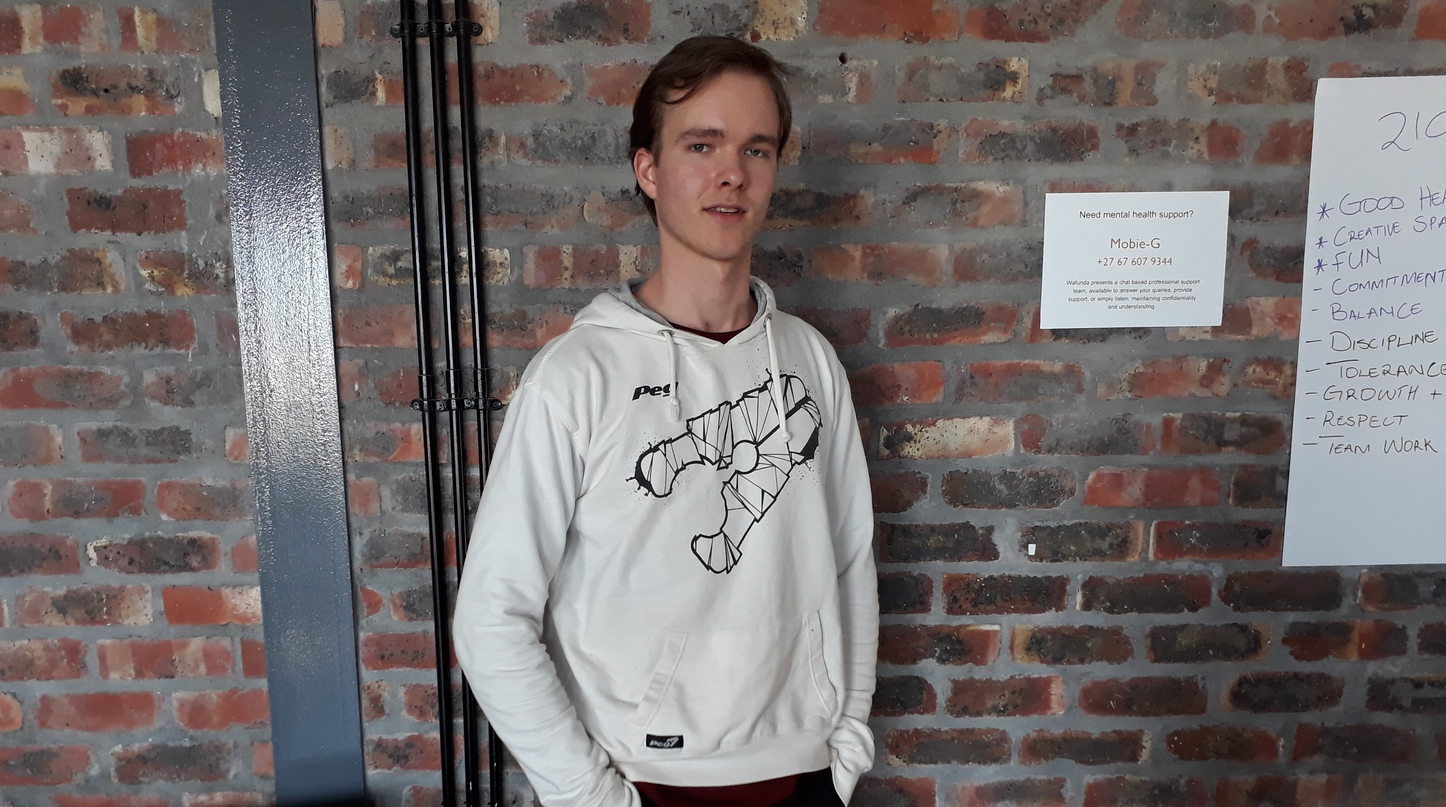
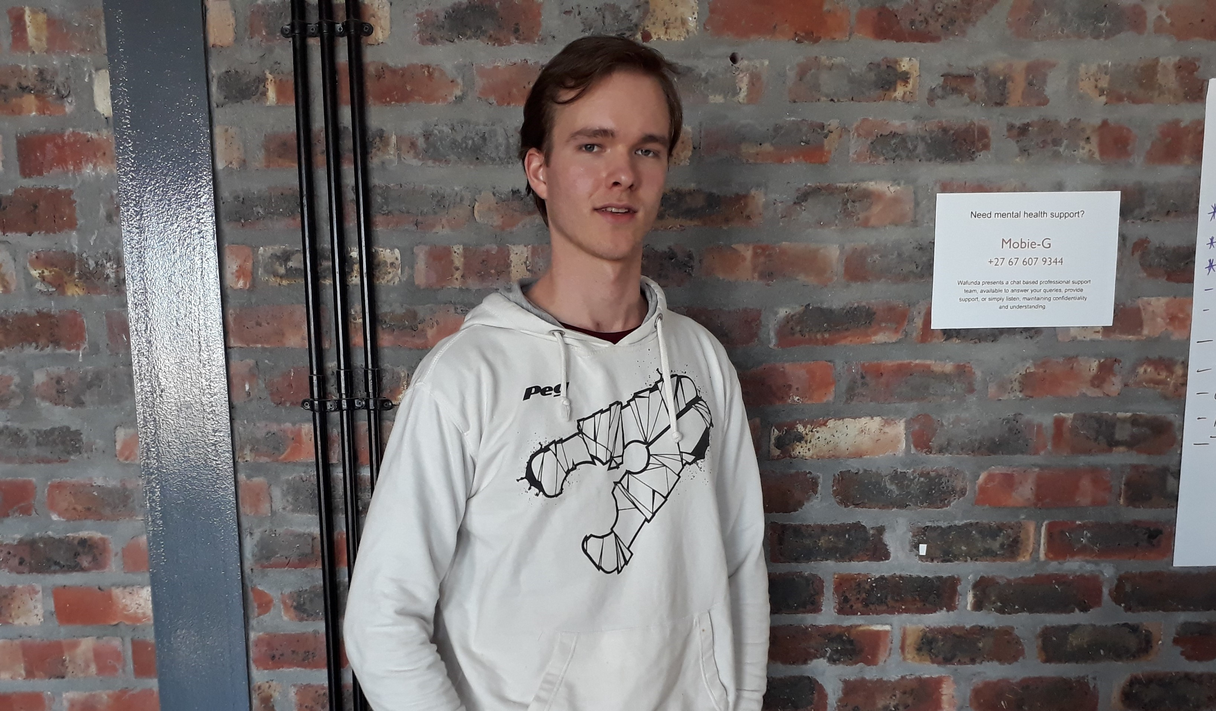
Added Background

diff --git a/css/style7-2.css b/css/style7-2.css
@@ -4,7 +4,7 @@ body {
 }
 
 main {
-  margin: 10px 160px;
+  margin: 0px 160px;
 }
 
 .bottomSpaces {
@@ -15,11 +15,11 @@ main {
   margin-bottom: 20px;
 }
 
-/* .emilImg {
-  border: 1px solid black;
-  border-radius: 50%;
+.emilImg {
+  border: 1px solid #fff;
+  border-radius: 5%;
   margin: 12px 0px;
-} */
+}
 
 /* Positioning */
 /* aside {
@@ -52,9 +52,15 @@ h3 {
 }
 
 h1 {
+  color: #fff;
   margin-block-start: 0.2em;
   margin-block-end: 0.2em;
-  font-weight: 600;
+  font-weight: 400;
+}
+
+#title, #contact {
+  color: #fff;
+  font-weight: 350;
 }
 
 h3 {
@@ -65,7 +71,7 @@ h3 {
 h2 {
   margin-block-start: 0.2em;
   margin-block-end: 0.2em;
-  color: lightseagreen;
+  color: rgb(24, 119, 114);
   font-weight: 500;
 }
 
@@ -108,21 +114,27 @@ body {
 
 header,
 footer {
-  background-color: rgb(198, 198, 199);
+  background: rgb(198, 198, 199) url("/resume/images/background.jpg");
+  /* background-color: rgb(198, 198, 199); */
   margin: 0px 140px;
   padding: 20px;
+  background-size: cover;
 }
 
 header {
   padding-bottom: 30px;
-  background-image: linear-gradient(rgb(202, 202, 202), rgb(241, 241, 241));
+  /* background-image: linear-gradient(rgb(202, 202, 202), rgb(241, 241, 241)); */
 }
 
-footer {
+/* footer {
   background-image: linear-gradient(rgb(241, 241, 241), rgb(202, 202, 202));
-}
+} */
 
 /* Form appearance */
+legend {
+  color: #fff;
+  font-size: large;
+}
 
 fieldset {
   width: 330px;
@@ -131,6 +143,7 @@ fieldset {
 }
 
 label {
+  color: #dfdfdf;
   display: block;
   width: 100px;
 }
@@ -149,3 +162,27 @@ button {
   font-family: sans-serif;
   font-size: 0.8em;
 }
+
+/* images */
+/* picture {
+  
+} */
+
+img {
+  max-width: 100%;
+  height: auto;
+}
+/* #smallImg {
+  width: 200px;
+  height: 200px;
+}
+
+#mediumImg {
+  width: 300px;
+  height: 300px;
+}
+
+#smallImg {
+  width: 600px;
+  height: 300px;
+} */

diff --git a/resume7-2.html b/resume7-2.html
@@ -10,25 +10,30 @@
   <body>
     <header>
       <h1>Emil Erasmus</h1>
-      <h2>Software Developer</h2>
+      <h2 id="title">Software Developer</h2>
+      <br />
+      <picture>
+        <source
+          id="smallImg"
+          media="(max-width: 500px)"
+          srcset="images/emil-cropped.jpg"
+        />
+        <source
+          id="mediumImg"
+          media="(max-width: 1000px)"
+          srcset="images/emil.jpg"
+        />
+        <img
+          class="emilImg"
+          src="images/emil-landscape.jpg"
+          alt="super-epic-human-being.jpg"
+        />
+      </picture>
     </header>
+    <br />
 
     <main>
       <aside class="bottomSpaces">
-        <picture>
-          <source 
-            media="(min-width: 800px)"
-            srcset="images/emil-landscape.jpg"
-            style="height: 200; width: 600;"
-          />
-          <!-- <source media="(min-width: 465px)" srcset="img_car.jpg" /> -->
-          <img class="emilImg"
-            src="images/emil.jpg"
-            alt="super-epic-human-being.jpg"
-            style="height: 260px; width: 500px"
-          />
-        </picture>
-
         <hr />
         <nav class="nav1">
           <ul>
